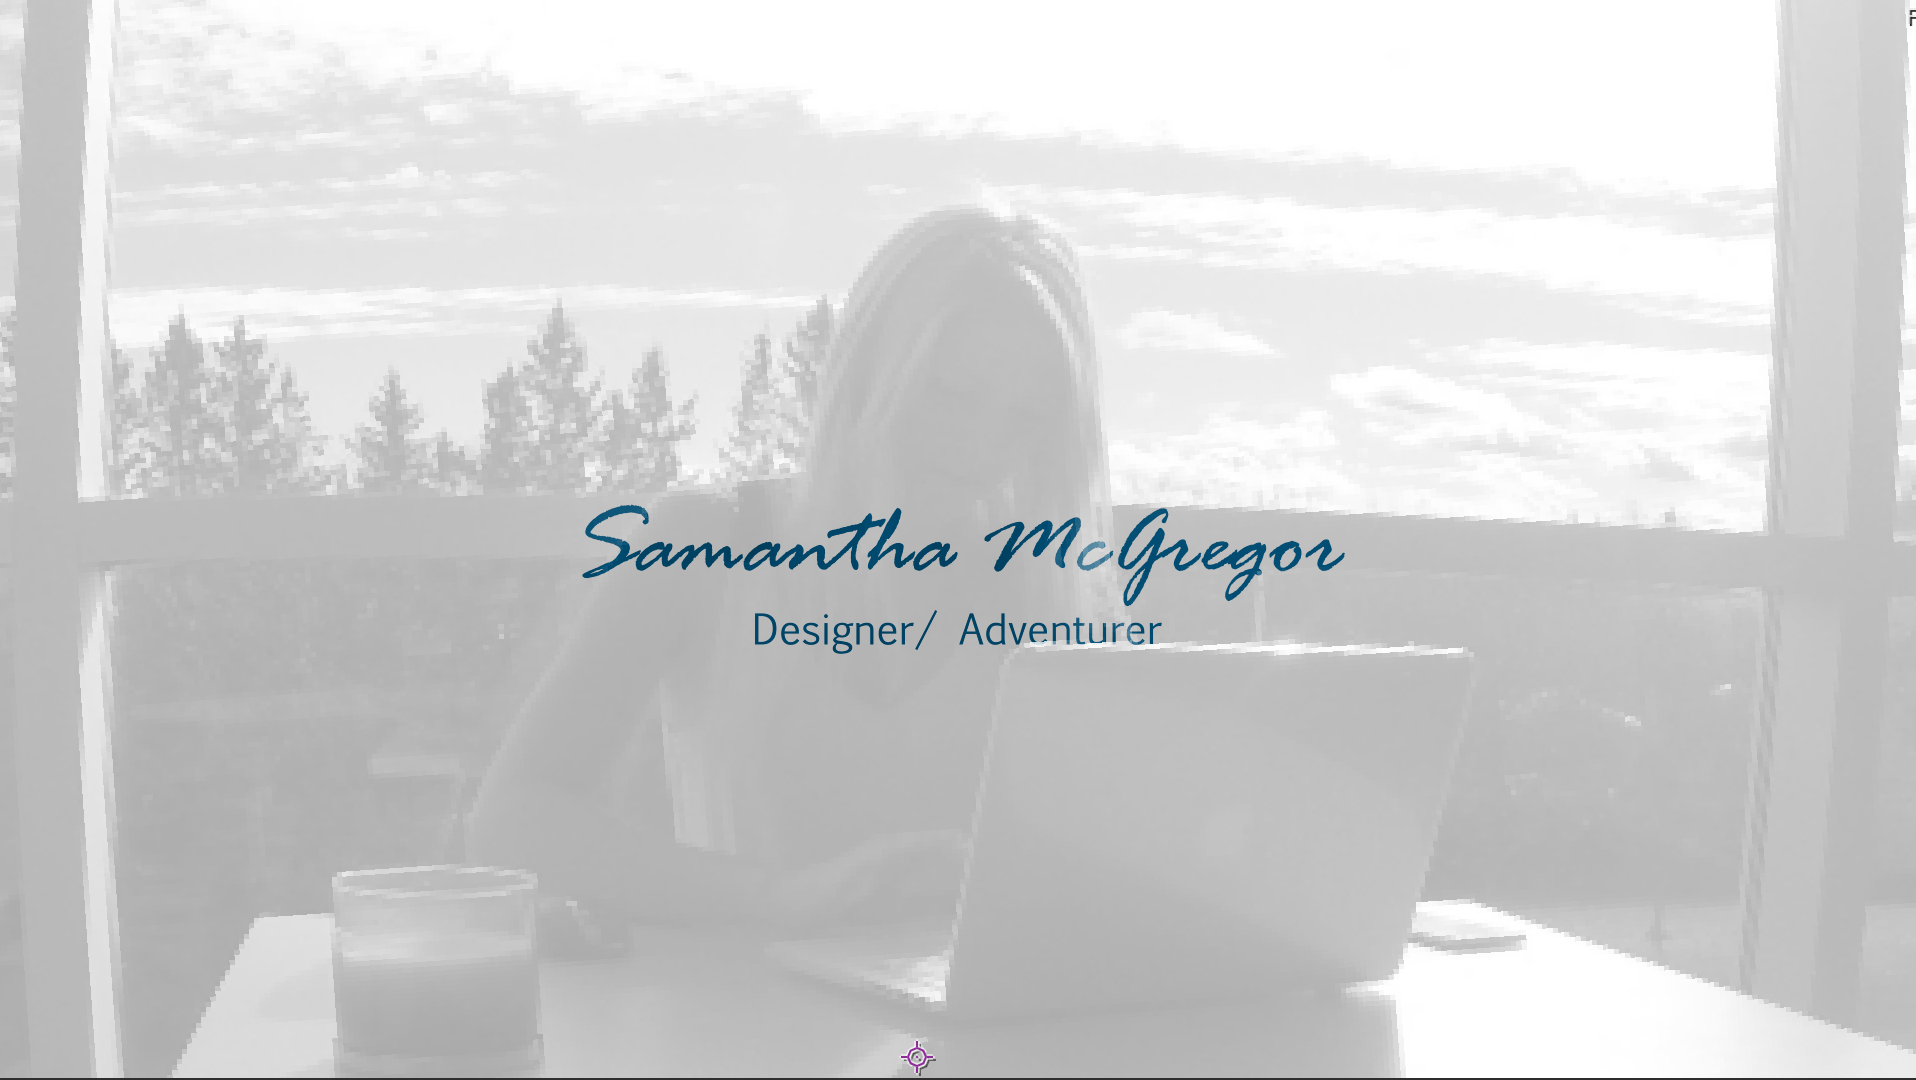
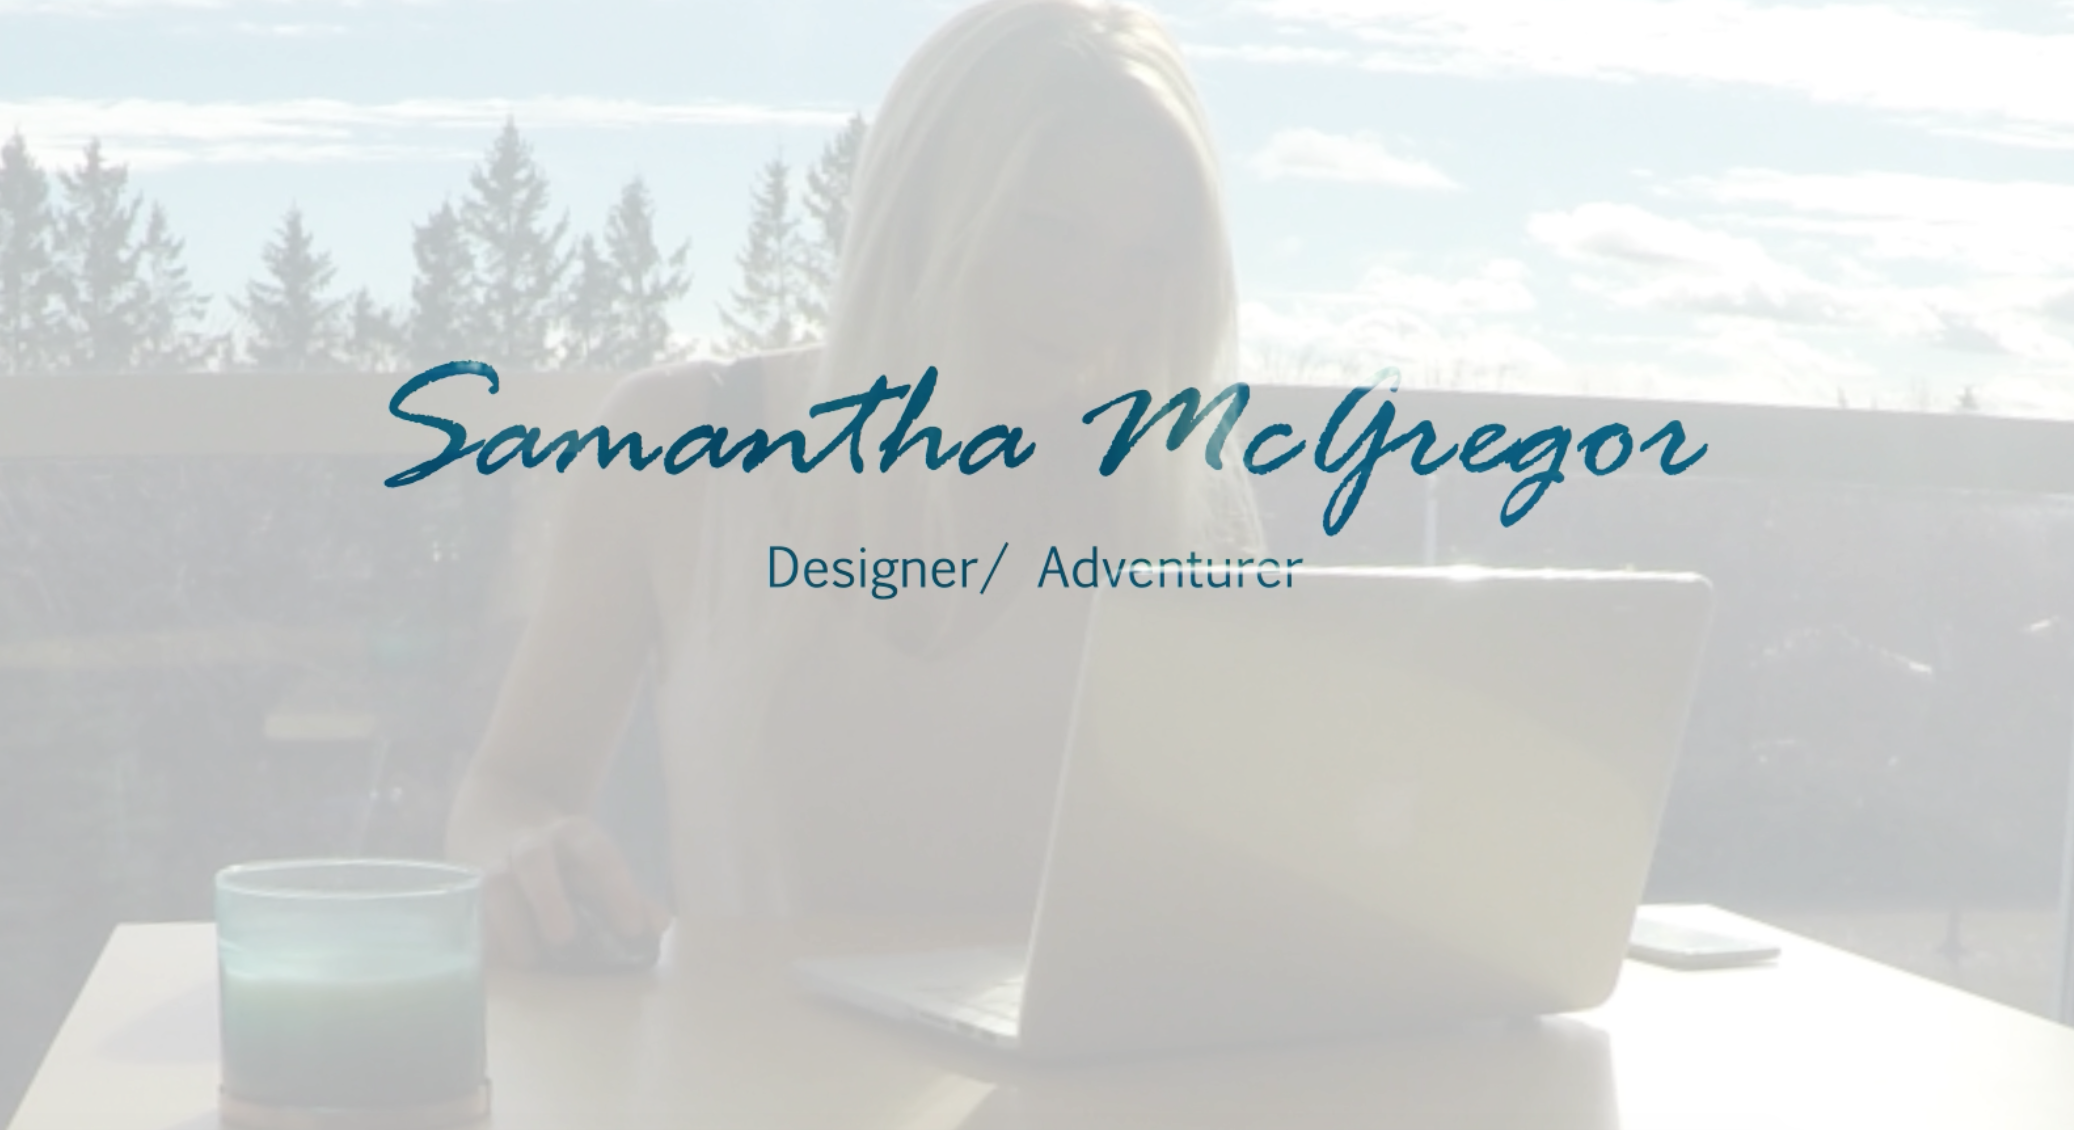
Video

diff --git a/_layouts/default.html b/_layouts/default.html
@@ -37,7 +37,7 @@
         <div class="grid widthx">
             <div class="unit unit-xs-1 unit-1 unit-m-1 unit-l-1">
                 <div class="embed embed--16by9" aria-label="Video of Samantha McGregor">
-                    <video class="embed_item" src=" http://portfolio-230f.kxcdn.com/Goodone_7.mp4" loop autoplay id="motionv" height="330" poster="images/poster.png">
+                    <video class="embed_item" src=" http://portfolio-230f.kxcdn.com/Goodone_2.mp4" loop autoplay id="motionv" height="330" poster="images/poster.png">
                         <h1>Designer/ Adventurer</h1>
                     </video>
                 </div>
@@ -53,29 +53,6 @@
                         </ul>
                     </nav>
             </header>
-        </div>
-    </section>
-    <section class="services" id="services">
-        <div class="services" id="tab-2">
-            <h2>Services</h2>
-            <div class="unit unit-xs-1 unit-s-1 unit-m-1-4 unit-l-1-4">
-                <a href="#tab-3">
-                <img src="images/Photography.svg" class="icon" alt="Photography Icon"></a>
-                <p class="caption">Photography</p>
-                <span class="underline"></span>
-            </div>
-            <div class="unit unit-xs-1 unit-s-1 unit-m-1-4 unit-l-1-4">
-                <a href="https://www.behance.net/McgregorS">
-                <img src="images/design.svg" class="icon" alt="Design Icon"></a>
-                <p class="caption">Graphic Design</p>
-                <span class="underline"></span>
-            </div>
-            <div class="unit unit-xs-1 unit-s-1 unit-m-1-4 unit-l-1-4">
-                <a href="https://vimeo.com/user18849594">
-                <img src="images/motion.svg" class="icon" alt="Motion Icon"></a>
-                <p class="caption">Motion</p>
-                <span class="underline"></span>
-            </div>
         </div>
     </section>
     
